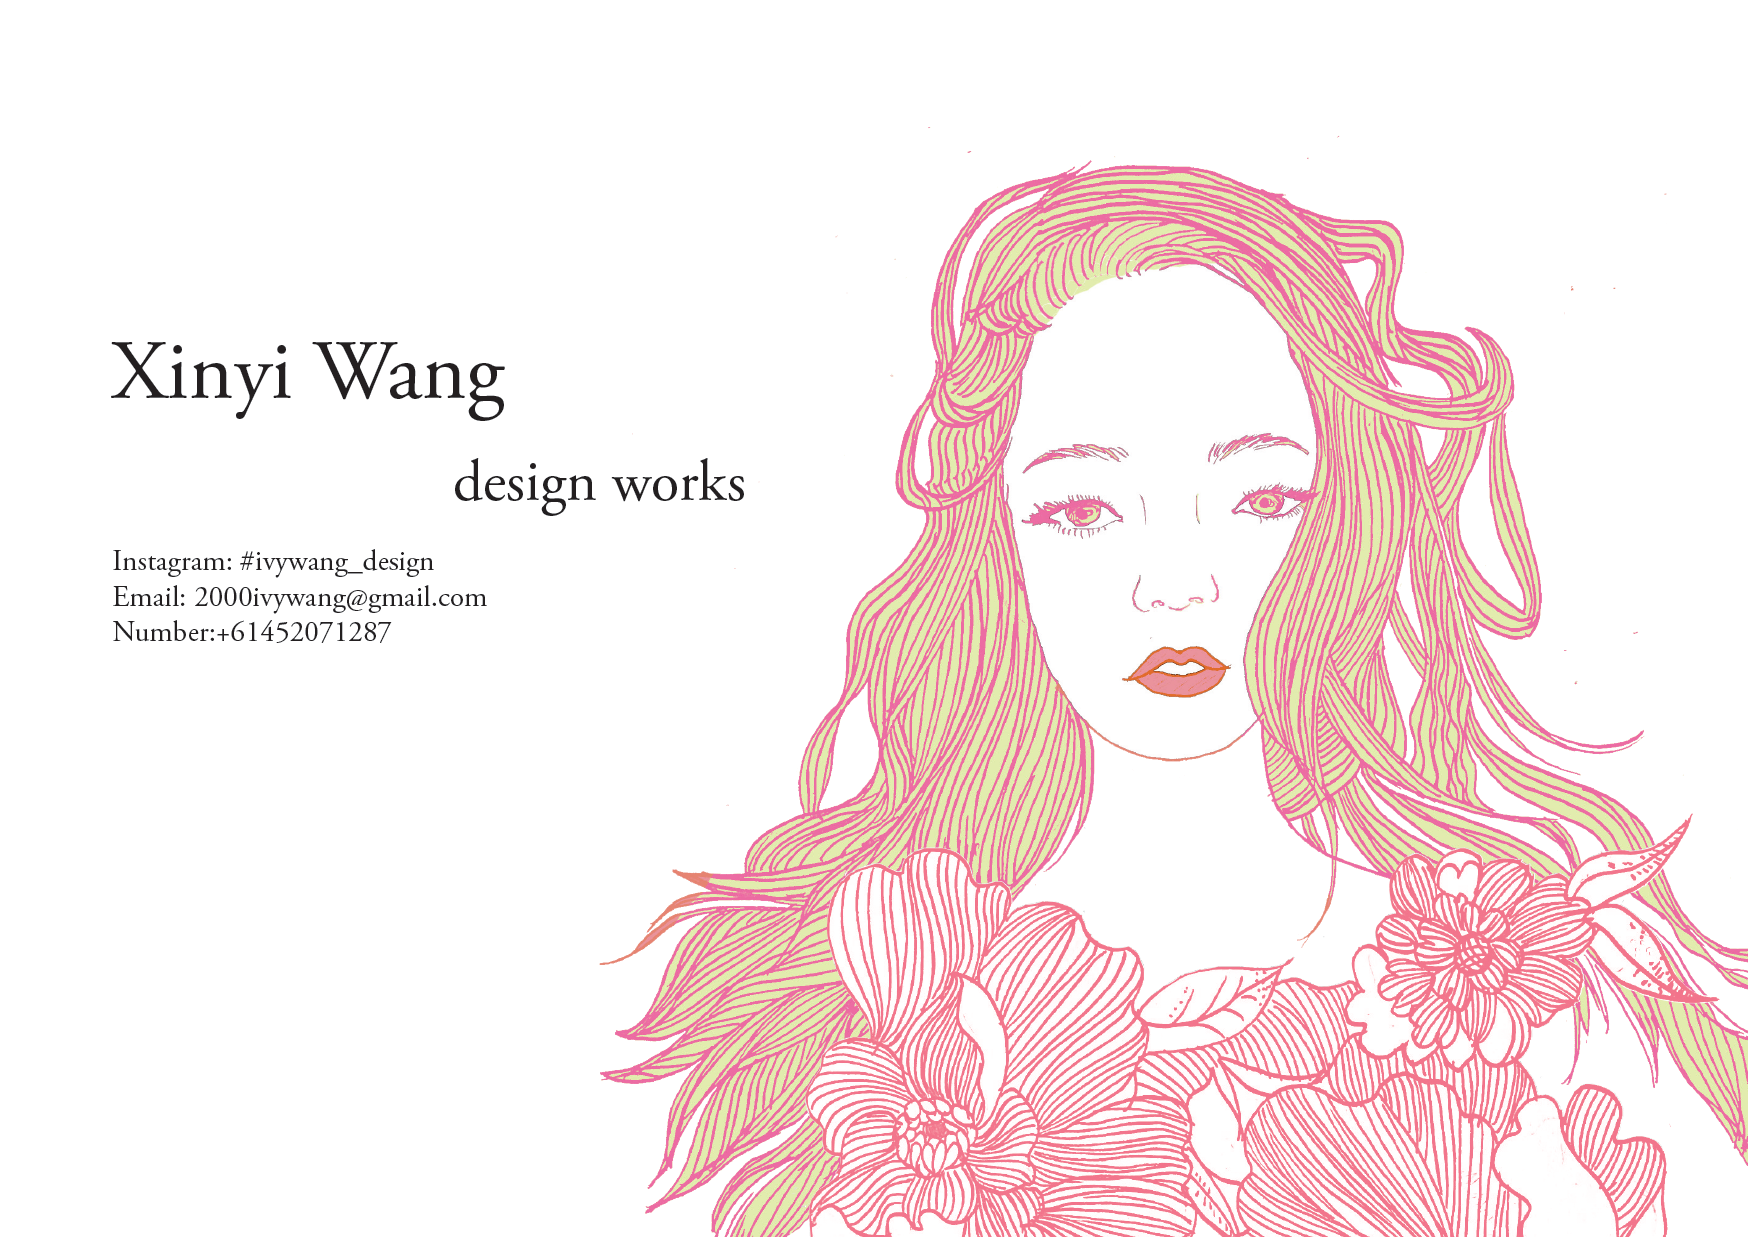
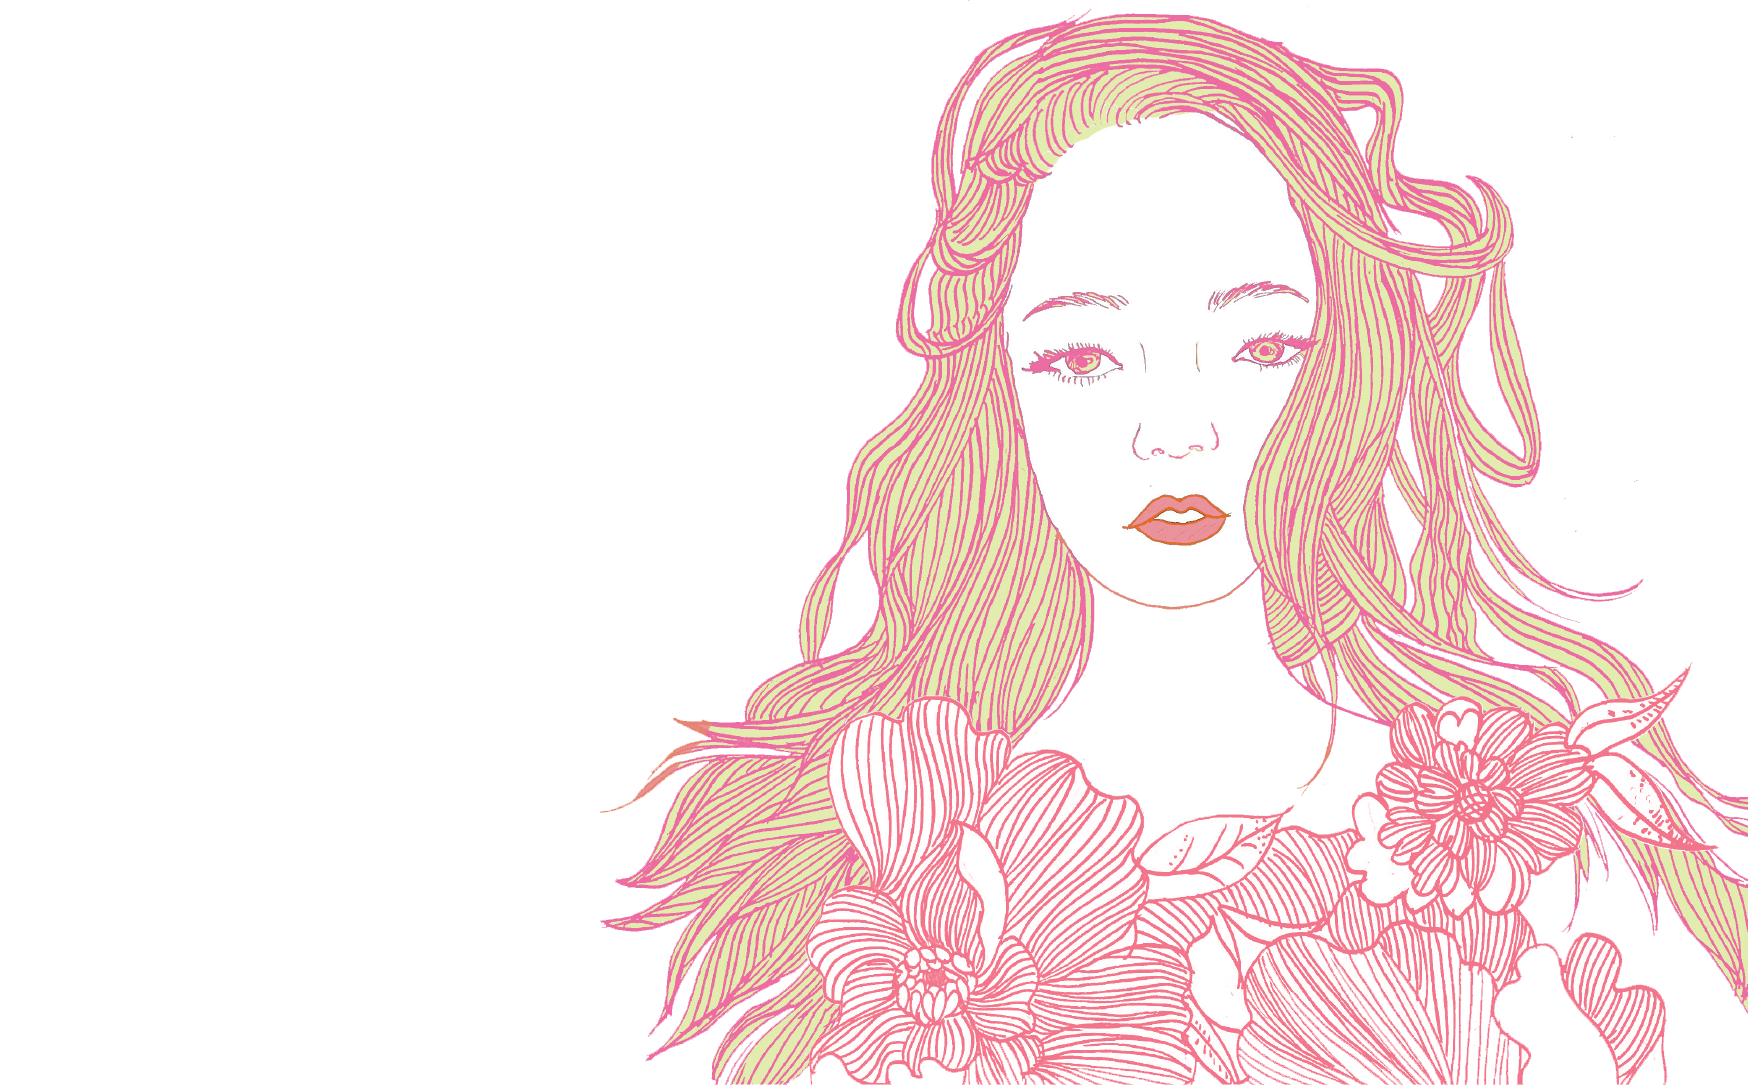
up

diff --git a/index.html b/index.html
@@ -3,34 +3,47 @@
   <head>
     <meta charset="utf-8">
     <title>Ivywang</title>
+
     <link rel="stylesheet" href="css/style.css">
     <link rel="indexessay" href="css/style.css">
   </head>
   <body>
 
     <h1>Ivywang's homepage</h1>
-    <img src="images/1.png" >
-
 
     <p>
     Hi, I’m Ivy Wang – a recent MADA graduate from Monash university.
-    With the love of design, my focus on the craft of design and the creative approach give my works more exploring of printed matter, visual identi- ties, editorial design and design art directions.
-    I did a lot poster designs, identity designs, publication designs. I am also quite enthusiastic about illustration and collage, you can  nd more works in my instagram.
+    With the love of design, my focus on the craft
+    of design and the creative approach give my works more exploring
+    of printed matter, visual identi- ties, editorial design and design art directions.
+    I did a lot poster designs, identity designs, publication designs.
+      I am also quite enthusiastic about illustration and collage,
+    you can find more works in my instagram.
     Please feel free to contact me anytime.
-   </p>
-
-   <p>
-    <a href="homelink.html">Read </a>my digital self link
    </p>
 
    <p>
     <a href="1_repost/repost text.html">Read </a>my reposted text
    </p>
 
-   <p>
-    <a href="2_essay/indexessay.html">Read </a>my reposted essay
-   </p>
+<p>
+  <a href="1_repost/research.html">Read </a>my reposted research
+</p>
+
+<p>
+<a href="2_essay/indexessay.html">Read </a> my reposted essay
+</p>
+
+   <img src="images/1.png" >
+
+
+
+
+
+
+
 
 
   </body>
+
 </html>

diff --git a/css/style.css b/css/style.css
@@ -1,17 +1,45 @@
 body{
-  background-color: white;
-  font-size:20px;
-  column-gap: normal;
+  position: absolute;
+  background-color: pink;
+text-align: center;
+top:10px;
+width:800px;
+right:50;
+left:400px;
+
+border: 3px ;
+
+
+  font-size: 20px;
 
 }
 
+h1{font-family: sans-serif;
+   color: cornsilk;
+    text-shadow: 1px 1px 2px white, 0 0 25px purple, 0 0 5px purple;
+    font-size: 60px;
+  text-align: center;
 
-h1{
- font-size:55px ;
- color: palevioletred;
- font-family:arial;
- text-align: center;
- text-shadow: 0 1px 0 rgba(255, 255, 255, 0.4);
- color:Orange;
- text-shadow: 2px 2px 5px red;
+
+}
+
+img{
+  position: absolute;
+ top: 390px;
+ right: 0;
+ width: 1200px;
+ height: 750px;
+ border: 3px ;
+
+  }
+
+}
+
+p{
+  text-align: center;
+    width: 400px;
+     float:right;
+     clear:right;
+     margin: 20px 20px 0 0;
+ border:5px solid #333;
 }

diff --git a/3_poster/index.html b/3_poster/index.html
@@ -1,0 +1,48 @@
+<!DOCTYPE html>
+<html lang="en" dir="ltr">
+  <head>
+
+    <meta charset="utf-8">
+
+    <title></title>
+
+    <link rel="stylesheet" href="css/style.css">
+  </head>
+
+  <body>
+
+
+    <div class="row">
+
+      <div class="col col1of2 bg_red">
+            <h1>An App Called you</h1>
+          </div>
+
+          <div class="col col1of2 bg_blue">
+            <p> A Guide to the extreme present</p>
+            <a href="http://google.com">link</a>
+          </div>
+
+    </div>
+
+
+  <div class="row">
+
+    <div class="col col1of3">
+      <p>Machines are talking about you behind your back</p>
+</div>
+
+    <div class="col col1of3">
+      <p>I miss doing nothing</p>
+</div>
+
+    <div class="col col1of3">
+      <img src="images/ispinner.png" alt="">
+</div>
+
+  </div>
+
+
+
+  </body>
+</html>

diff --git a/1_repost/research.html b/1_repost/research.html
@@ -3,7 +3,7 @@
   <head>
     <meta charset="utf-8">
     <title>Repost Research</title>
-    <link rel="stylesheet" href="css/style2.css">
+    <link rel="stylesheet" href="css/style1.css">
   </head>
   <body>
   <h1>Research</h1>
@@ -17,6 +17,9 @@
     <img src="images/vr1.png">
     <img src="images/vr2.png">
     <img src="images/vr3.png">
+    <img src="images/vr4.png">
+    <img src="images/vr5.png">
+    <img src="images/vr6.png">
 
   <p>The Veer camera through 360 degree angle to show each painting as sort of photo uploaded on this app.
   It will automatically change the photo to a 360-degree visual style.

diff --git a/1_repost/css/style2.css b/1_repost/css/style2.css
@@ -21,6 +21,7 @@ h2{  font-family: Times;
   font-size:35px;
 
 
+
 }
 h3{font-family: Times;
   font-size: 23px;
@@ -32,14 +33,14 @@ h4{ font-family: Times;
   font-size:24px;
   border: 1px pink;
   background-color: coral;
-  width:730px;
+  width:718px;
 }
 
 h5{ font-family: Times;
   font-size:24px;
    border: 1px pink;
   background-color: coral;
-  width:730px;
+  width:718px;
 
 }
 
@@ -47,6 +48,6 @@ h6{  font-family: Times;
   font-size:24px;
   border: 1px pink;
   background-color: coral;
-  width:730px;
+  width:718px;
 
 }

diff --git a/3_poster/css/style.css b/3_poster/css/style.css
@@ -1,0 +1,51 @@
+body{
+  font-family: arial;
+  font-weight: bold;
+  background-color: black;
+  color: white;
+}
+
+a{
+  color: red;
+}
+
+h1{
+
+}
+
+p{
+
+}
+
+.row{
+  border-bottom: 1px solid white;
+  overflow: hidden;
+}
+
+.col{
+  float: left;
+}
+
+.col1of2{
+  width: 50%;
+}
+
+.col1of3{
+  width:33.333%;
+
+}
+
+.col1of4{
+  width:25%;
+}
+
+.col1of5{
+  width:20%;
+}
+.bg_red {
+  background-color: red;
+}
+
+.bg_blue{
+  background-color: blue;
+}

diff --git a/1_repost/css/style1.css b/1_repost/css/style1.css
@@ -1,0 +1,31 @@
+body{
+  background-color:cornsilk;
+  width: 800px;
+  margin:auto;
+  margin-top: 200px;
+  font-family: arial;
+
+}
+
+
+h1{
+  text-family:Times;
+  border: 2px cornsilk;
+  font-size: 70px;
+  color:Orange;
+  text-shadow: 2px 2px 5px red;
+
+}
+
+h2{
+  border: 1px pink;
+  background-color: coral;
+  width:718px;
+}
+
+h3{
+  border: 1px pink;
+  background-color: coral;
+  width:751px;
+
+}
